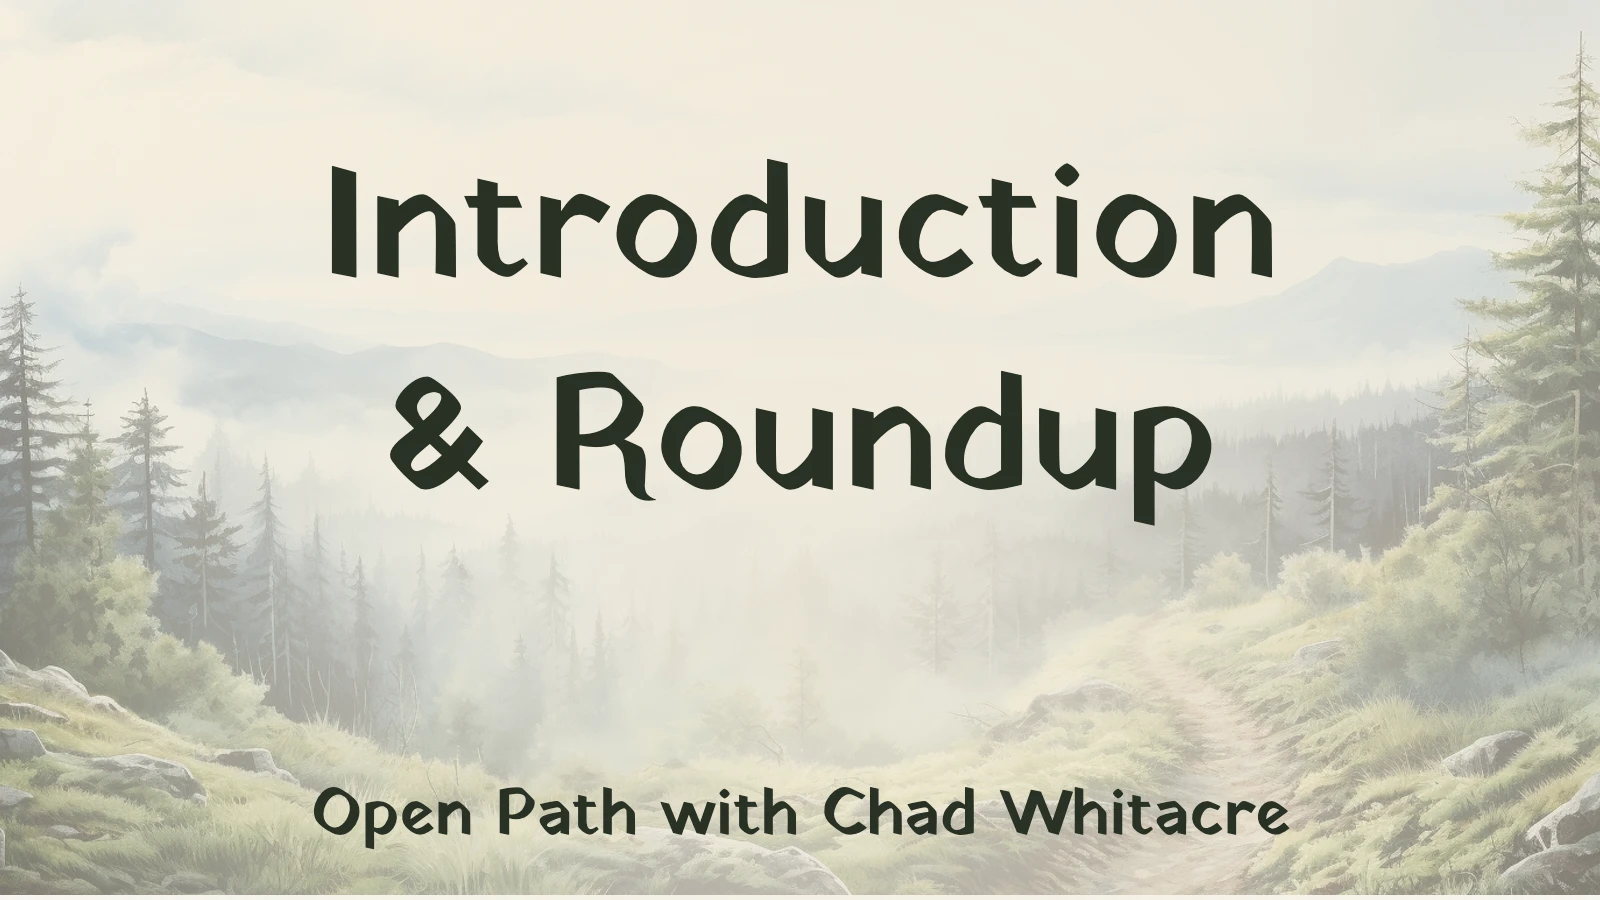
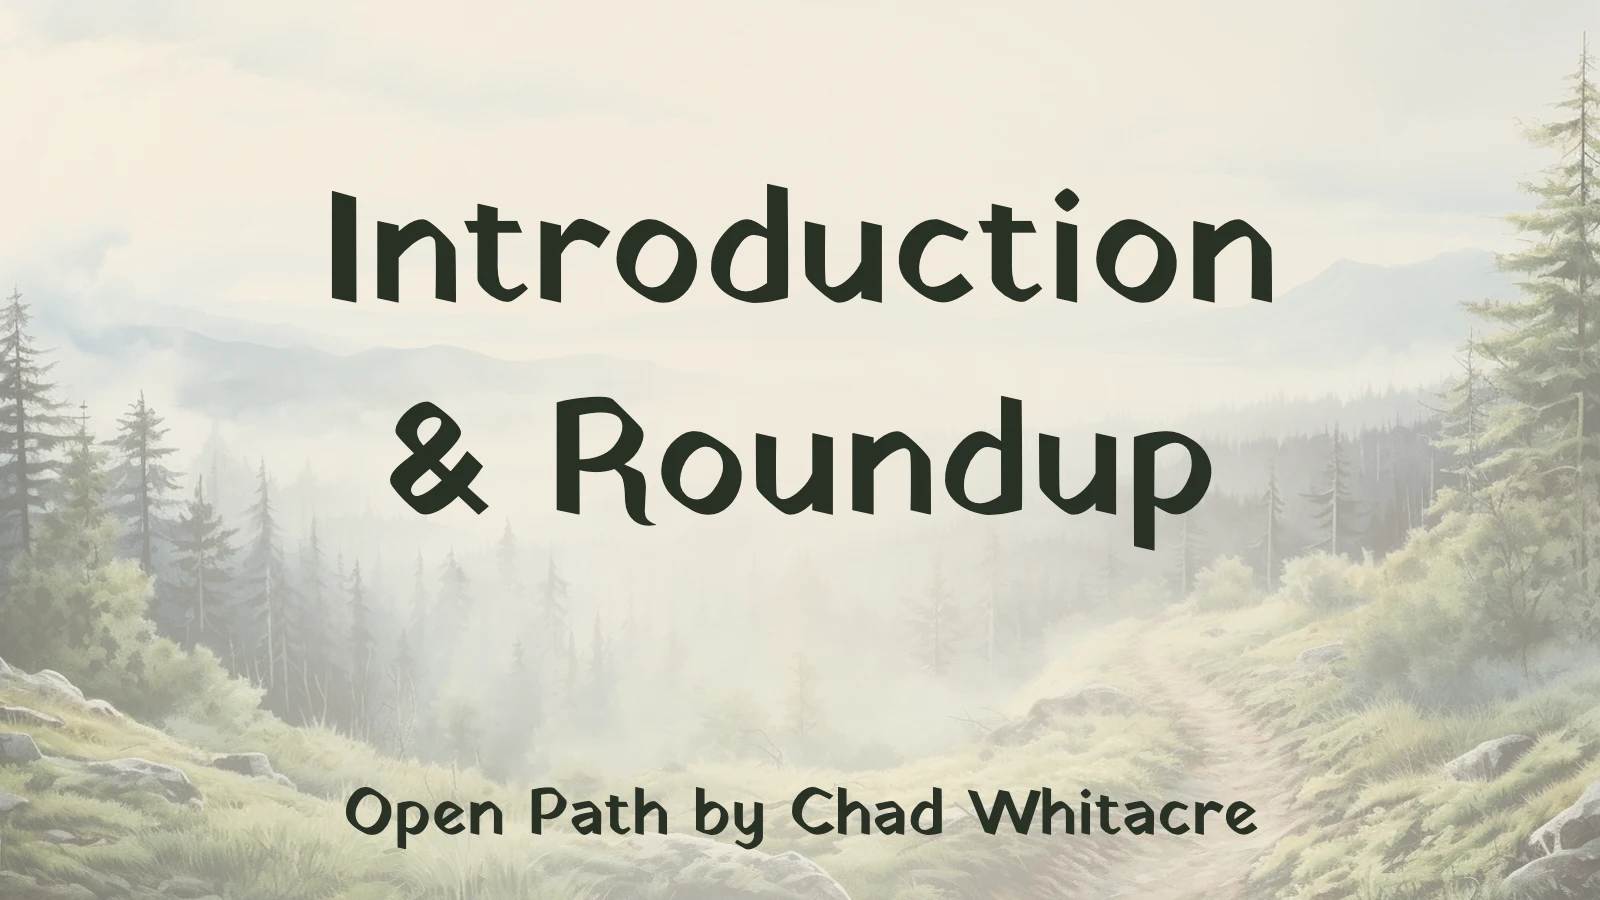
Futzing, drafts

diff --git a/index.html b/index.html
@@ -1,7 +1,8 @@
 ---
 layout: default
-title: "Open Path with Chad Whitacre"
-excerpt: "Conversations about Open Source, tech, and society, hosted by Chad Whitacre"
+# For page meta, keep in sync with _config.yml
+title: "Open Path by Chad Whitacre"
+excerpt: "A Blog About Open Source, Tech, and Society"
 ---
 
 <section class="intro">
@@ -15,7 +16,7 @@ excerpt: "Conversations about Open Source, tech, and society, hosted by Chad Whi
     <p>
       Greetings! My name is
       <a href="https://chadwhitacre.com/">Chad Whitacre</a>, and I'm Head of
-      Open Source at <a href="https://sentry.io/welcome/">Sentry</a>.
+      Open Source at <a href="https://sentry.io/welcome/" class="sentry">Sentry</a>.
     </p>
 
     <p>

diff --git a/_layouts/default.html b/_layouts/default.html
@@ -17,7 +17,7 @@
 
     <!-- ty opengraph.xyz 🙏 -->
     <title>
-      {{ page.title }}{% if page.url != '/' %} ❧ Open Path with Chad Whitacre{%
+      {{ page.title }}{% if page.url != '/' %} ❧ Open Path by Chad Whitacre{%
       endif %}
     </title>
     <meta name="description" content="{{ page.excerpt }}" />
@@ -53,7 +53,7 @@
       <a href="/">
         <div class="content">
           <h1>Open Path</h1>
-          <h2>with Chad Whitacre</h2>
+          <h2>by Chad Whitacre</h2>
         </div>
       </a>
     </header>

diff --git a/assets/style.scss b/assets/style.scss
@@ -171,6 +171,16 @@ header {
 
     a {
       color: var(--white);
+      &.sentry {
+        &::before {
+          content: "   ";
+          white-space: pre;
+        }
+        display: inline-block;
+        background: no-repeat url("/assets/sentry.svg");
+        background-size: auto 50%;
+        background-position: left 45%;
+      }
     }
 
     img.headshot {

diff --git a/_includes/posts.html b/_includes/posts.html
@@ -5,7 +5,7 @@ for post in posts limit: include.n %}
     <a class="title" href="{{ post.url }}">{{ post.title }}</a>
   </h3>
   <div class="meta">
-    <span class="date">{{ post.published | date: "%Y-%m-%d" }} &middot;</span>
+    <span class="date">{{ post.date | date: "%Y-%m-%d" }} &middot;</span>
     {{ post.excerpt }}
   </div>
 </div>

diff --git a/_drafts/introducing-open-path.md b/_drafts/introducing-open-path.md
@@ -1,7 +1,7 @@
 ---
 title: Introduction &amp; Roundup
 excerpt: Announcement about the Open Path website
-published: 2024-01-02
+draft: true
 ---
 
 Greetings! Welcome to [Open Path](/). The purpose of this new site is to

diff --git a/404.md b/404.md
@@ -1,9 +1,9 @@
 ---
 title: 404 Not Found
-layout: post 
+layout: post
 permalink: /404.html
 ---
+
 Sorry, seems the path is gone. 😞
 
 [Head home](/)?
-
